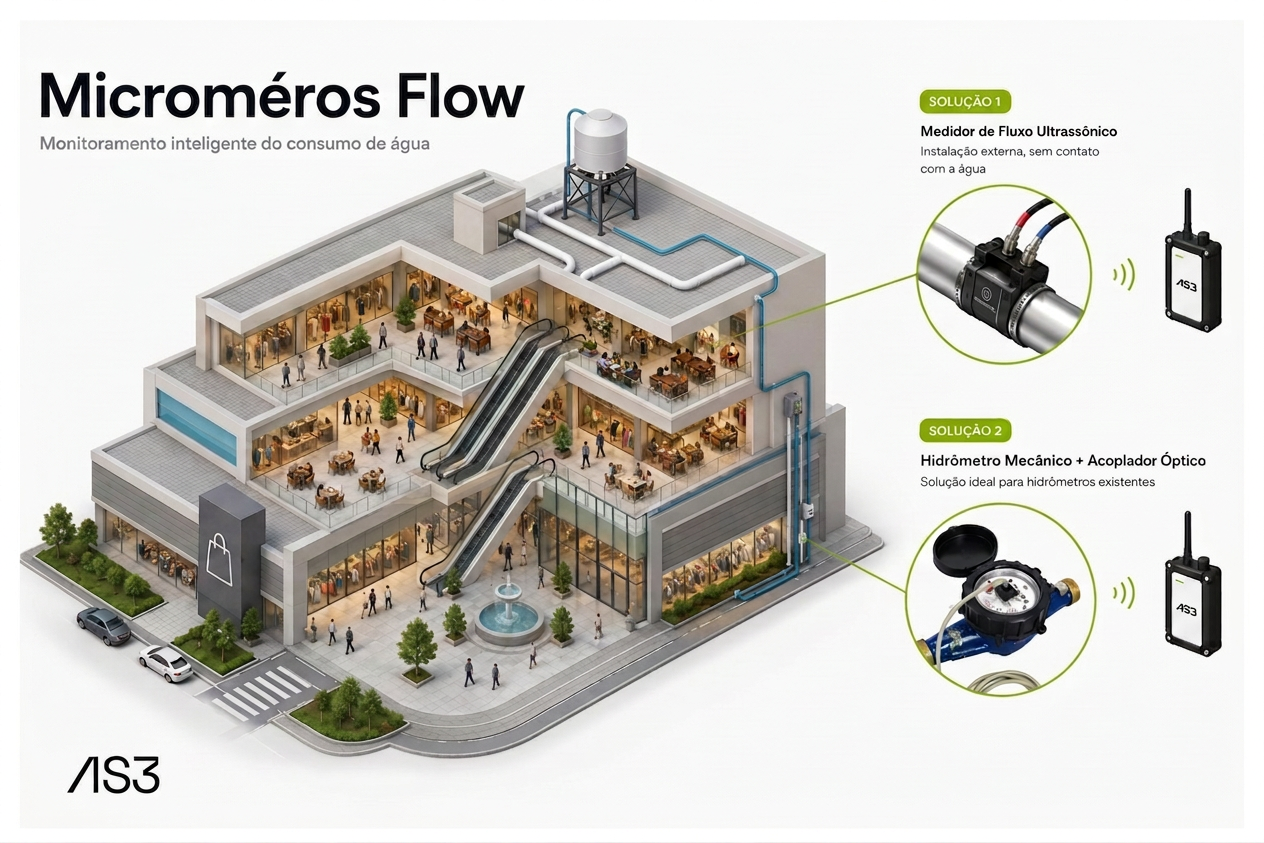
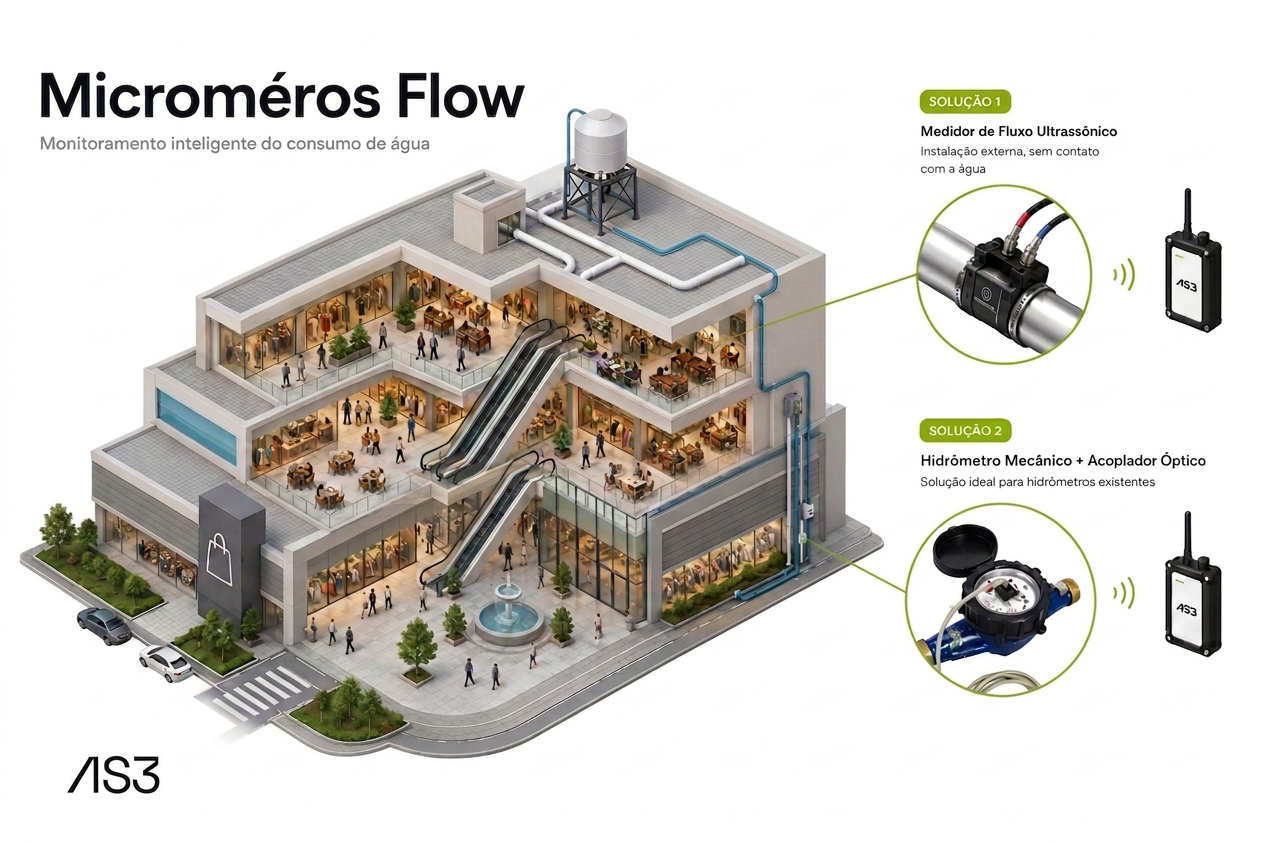
first revision

diff --git a/src/data/landingPage.js b/src/data/landingPage.js
@@ -14,9 +14,14 @@ import {
   FlaskConical,
   Cog
 } from "lucide-react";
-import process from '../assets/images/points/process.jpg'
+import process from '../assets/images/points/process.png'
 import level from '../assets/images/points/level.png'
 import flow from '../assets/images/points/flow.png'
+import power from '../assets/images/points/power.png'
+import climate from '../assets/images/points/climate.png'
+import machine from '../assets/images/points/machine.png'
+import meter from '../assets/images/points/meter.png'
+
 
 export const points = [
   {
@@ -24,7 +29,7 @@ export const points = [
     title: "Microméros Power",
     desc: "Corrente, tensão e demanda em quadros, subestações e circuitos críticos.",
     unit: "kWh",
-    image: process,
+    image: power,
     applicableSectors: [
       "Shopping",
       "Condomínios Residenciais",
@@ -79,7 +84,7 @@ export const points = [
     title: "Microméros Meter",
     desc: "Medição de vazão e pressão em linhas de gás natural e GLP industrial.",
     unit: "m³",
-    image: "../assets/images/points/process.jpg",
+    image: meter,
     applicableSectors: ["Indústria"],
   },
   {
@@ -87,7 +92,7 @@ export const points = [
     title: "Microméros Machine",
     desc: "Monitoramento de motores, máquinas e equipamentos industriais, acompanhando rotação, vibração e desempenho operacional.",
     unit: "RPM",
-    image: process,
+    image: machine,
     applicableSectors: [
       "Shopping",
       "Condomínios Residenciais",
@@ -119,7 +124,7 @@ export const points = [
     title: "Microméros Climate",
     desc: "Monitoramento de temperatura de temperatura e umidade de áreas.",
     unit: "C°",
-    image: process,
+    image: climate,
     applicableSectors: [
       "Shopping",
       "Condomínios Residenciais",

diff --git a/src/pages/LandingPage.jsx b/src/pages/LandingPage.jsx
@@ -12,7 +12,6 @@ import CTA from "../components/CTA";
 import Footer from "../components/Footer";
 import { points, processSteps, sectors } from "../data/landingPage";
 import { useRef, useState } from "react";
-import { Eye } from "lucide-react";
 import PointDetail from "../components/PointDetail";
 
 export default function LandingPage() {
@@ -62,14 +61,6 @@ export default function LandingPage() {
                   }`}
                 >
                   <PointCard {...point} />
-
-                  {/* Overlay de hover: "Veja onde o produto se aplica" */}
-                  <div className="pointer-events-none absolute inset-0 flex items-center justify-center gap-2 rounded-2xl bg-white/90 opacity-0 backdrop-blur-[1px] transition-opacity duration-200 group-hover:opacity-100">
-                    <Eye className="h-4 w-4 text-neutral-800" />
-                    <span className="text-sm font-medium text-neutral-800">
-                      Veja onde o produto se aplica
-                    </span>
-                  </div>
                 </button>
               ))}
             </div>

diff --git a/src/components/Header.jsx b/src/components/Header.jsx
@@ -14,8 +14,8 @@ export default function Header() {
         </div>
 
         <a
-          href="#contato"
-          className="hidden sm:inline-flex group items-center justify-center gap-2.5 font-semibold text-[15px] px-[26px] py-[15px] rounded-full bg-ink text-paper shadow-soft hover:bg-lime hover:text-ink hover:-translate-y-[3px] hover:shadow-hover transition-all duration-[180ms] no-underline whitespace-nowrap"
+        href="#contato"
+          className="hidden sm:inline-flex group items-center justify-center gap-2.5 font-semibold text-[15px] px-[26px] py-[15px] rounded-full bg-ink text-white shadow-soft hover:bg-lime hover:text-ink hover:-translate-y-[3px] hover:shadow-hover transition-all duration-[180ms] no-underline whitespace-nowrap"
         >
           Fale com um especialista
         </a>

diff --git a/src/components/PointCard.jsx b/src/components/PointCard.jsx
@@ -6,7 +6,7 @@ export default function PointCard({ icon: Icon, title, desc, unit }) {
       </div>
       <h3 className="text-[17.5px] font-bold m-0 mb-2">{title}</h3>
       <p className="text-[13.6px] text-ink-soft leading-[1.55] m-0">{desc}</p>
-      <span className="inline-block mt-4 text-[11.5px] font-semibold bg-gray-soft px-3 py-[5px] rounded-full text-ink-soft">{unit}</span>
+      <span className="inline-block mt-4 text-[11.5px] font-semibold bg-gray-soft px-3 py-[5px] rounded-full text-ink-soft transition-colors duration-200 group-hover:bg-lime group-hover:text-ink">Onde se aplica</span>
     </div>
   );
 }

diff --git a/src/components/Logo.jsx b/src/components/Logo.jsx
@@ -1,9 +1,9 @@
+import logo from '../assets/logos/as3.png'
+
 export default function Logo() {
   return (
     <div className="flex items-baseline gap-1.5 font-extrabold text-[21px]">
-      AS3
-      <span className="inline-block w-[9px] h-[9px] rounded-full bg-lime mx-0.5" />
-      <span className="font-normal text-[12.5px] text-ink-soft ml-1">engenharia</span>
+      <img src={logo} alt="AS3 Logo" className="h-16 w-auto" />
     </div>
   );
 }

diff --git a/src/components/PointDetail.jsx b/src/components/PointDetail.jsx
@@ -39,7 +39,7 @@ const PointDetail = forwardRef(function PointDetail({ point, onClose }, ref) {
           <img
             src={point.image}
             alt={point.title}
-            className="absolute inset-0 h-full w-full object-contain p-4 md:p-6"
+            className="absolute inset-0 h-full w-full object-contain"
             loading="lazy"
             decoding="async"
           />

diff --git a/src/styles/global.css b/src/styles/global.css
@@ -30,7 +30,9 @@
 html { scroll-behavior: smooth; }
 body { margin: 0; min-width: 320px; }
 button, a { font-family: inherit; }
-a { color: inherit; }
+@layer base {
+  a { color: inherit; }
+}
 * { box-sizing: border-box; }
 
 /* Highlight span inside h1 */
